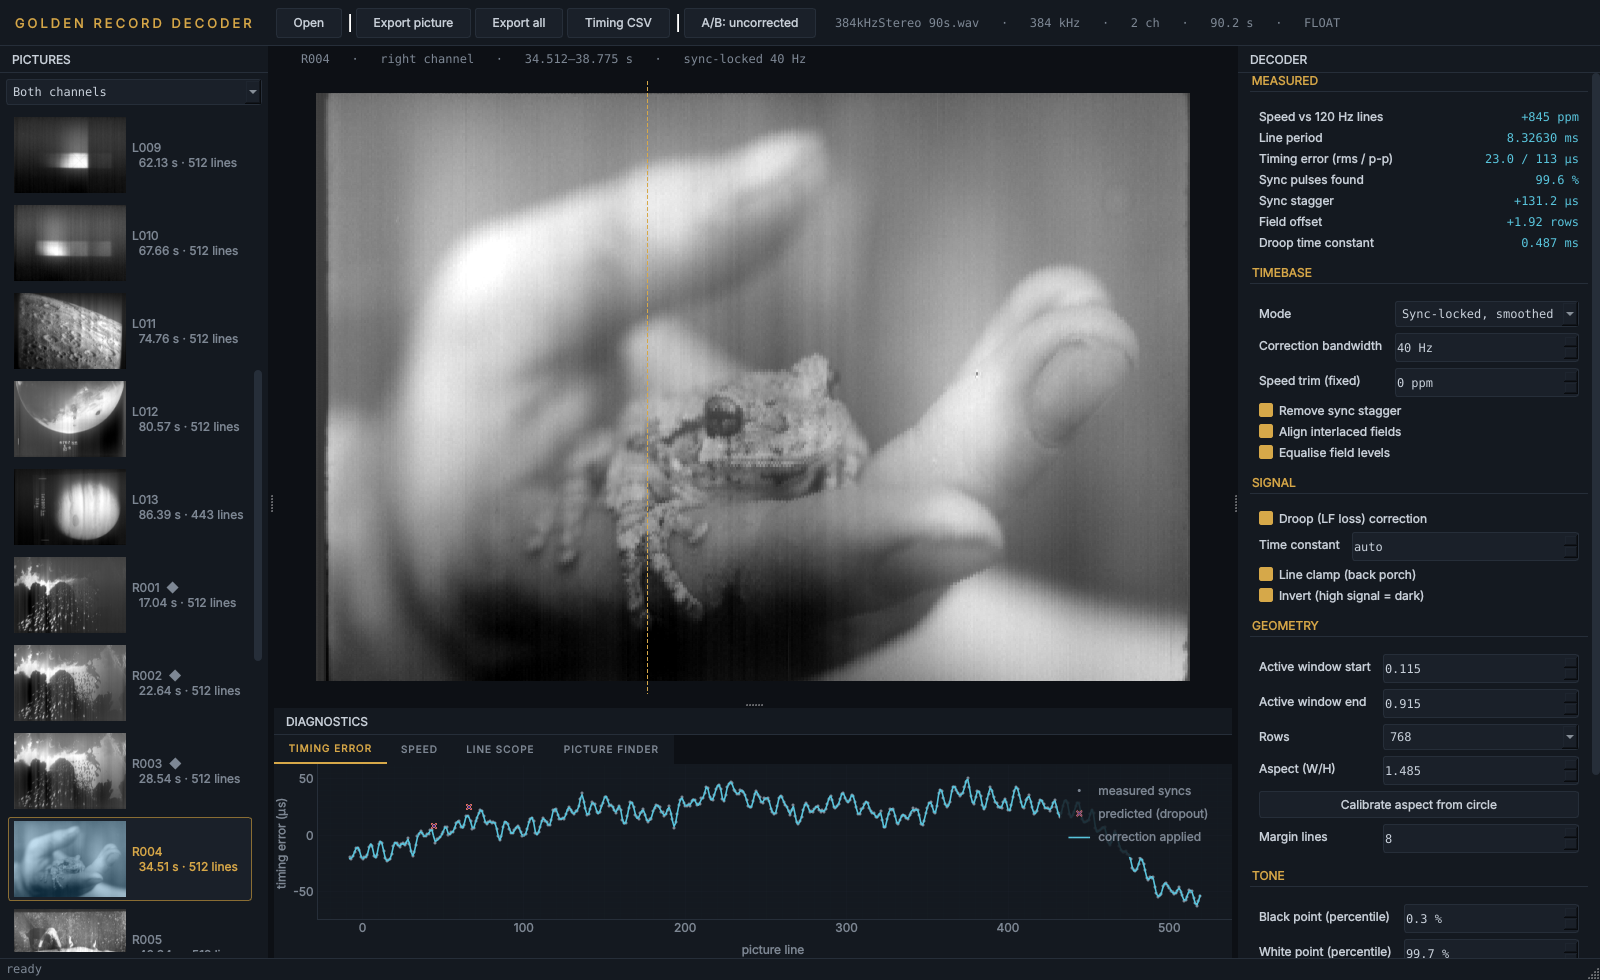
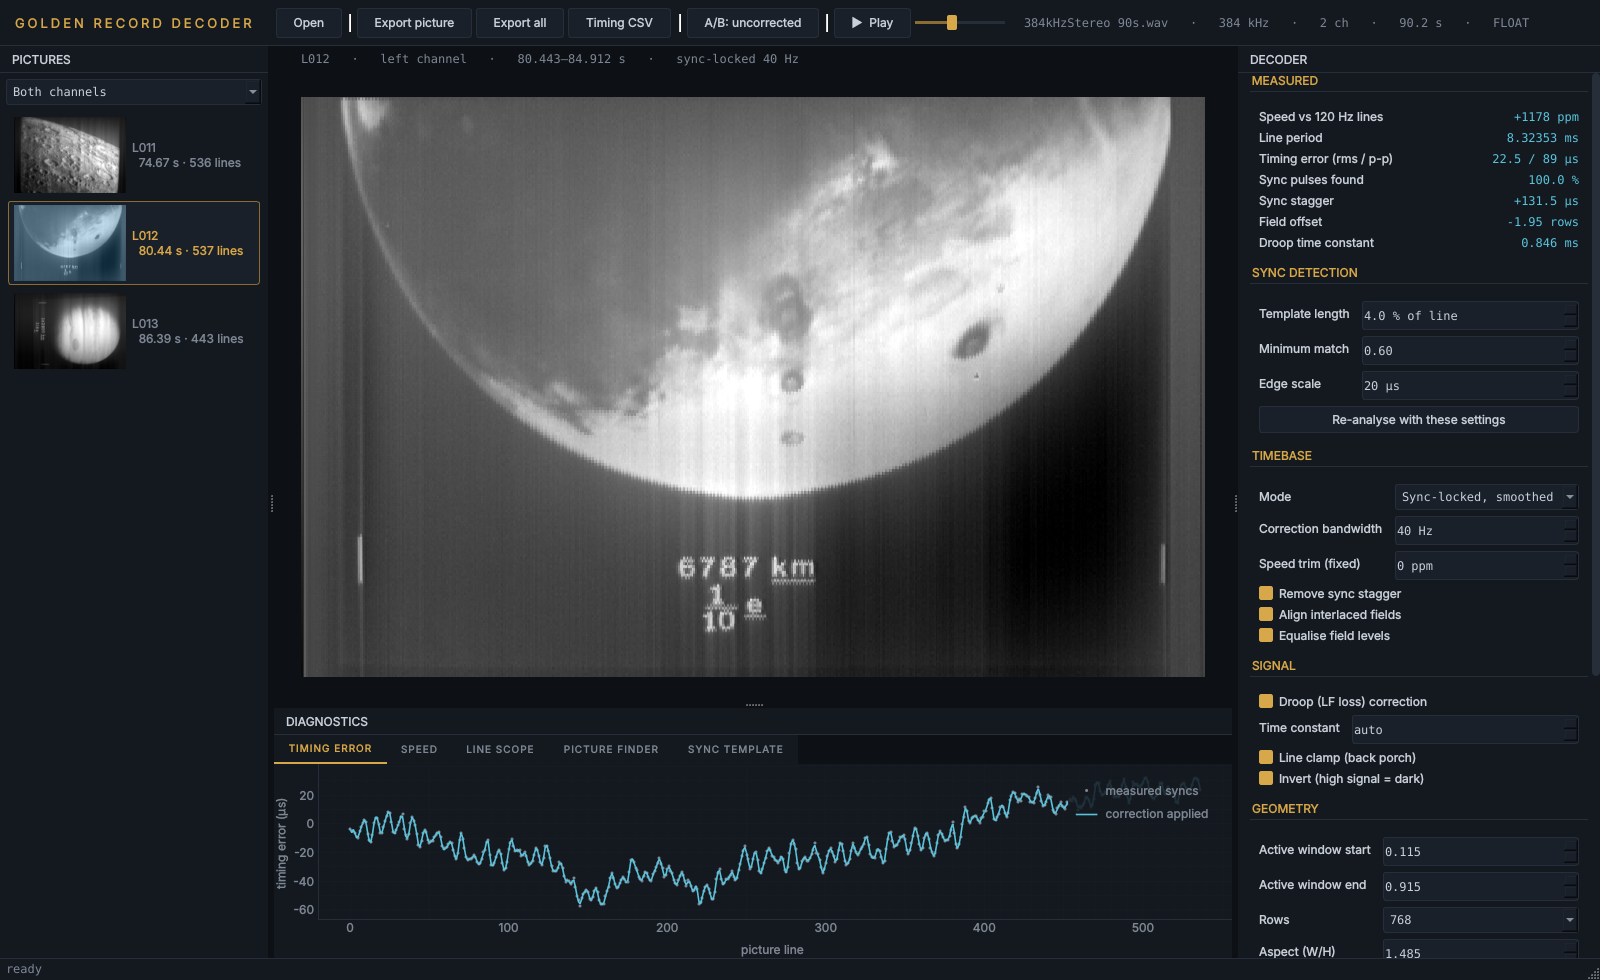
Prepare for public release (1.2.0) (#10)
- README: pictures limited to the calibration circle (with Jon Lomberg's
  permission) and NASA images; new screenshot; recording section; timing
- HOW_IT_WORKS: design described as it is (no version history), recording
  history (Honeywell 5600-C, second session), droop figure on NASA pictures
- module and function docstrings completed and brought up to date
- clean release notes

Claude-Session: https://claude.ai/code/session_01MSXHKbsSi9DGfUMQRjFHDt

diff --git a/src/grdecoder/gui/app.py b/src/grdecoder/gui/app.py
@@ -76,6 +76,7 @@ class Task(QtCore.QRunnable):
             pass
 
     def run(self) -> None:
+        """Run the job in a worker thread and report the result through signals."""
         try:
             try:
                 res = self.fn(*self.args, task=self)
@@ -91,6 +92,7 @@ class Task(QtCore.QRunnable):
 # small widget helpers
 # ==========================================================================
 def readout(text: str = "—") -> QtWidgets.QLabel:
+    """Right-aligned, monospaced label for a measured value."""
     lab = QtWidgets.QLabel(text)
     lab.setObjectName("readout")
     lab.setAlignment(QtCore.Qt.AlignRight | QtCore.Qt.AlignVCenter)
@@ -98,6 +100,7 @@ def readout(text: str = "—") -> QtWidgets.QLabel:
 
 
 def dspin(lo, hi, val, step, dec, suffix="") -> QtWidgets.QDoubleSpinBox:
+    """Double spin box with range, default, step, decimals and unit suffix."""
     s = QtWidgets.QDoubleSpinBox()
     s.setRange(lo, hi)
     s.setDecimals(dec)
@@ -109,6 +112,7 @@ def dspin(lo, hi, val, step, dec, suffix="") -> QtWidgets.QDoubleSpinBox:
 
 
 def styled_plot(ylabel: str, xlabel: str) -> pg.PlotWidget:
+    """pyqtgraph plot widget in the app's scope-like style."""
     p = pg.PlotWidget()
     p.showGrid(x=True, y=True, alpha=0.12)
     p.setLabel("left", ylabel)
@@ -149,6 +153,7 @@ def to_qimage(img01: np.ndarray) -> QtGui.QImage:
 # main window
 # ==========================================================================
 class MainWindow(QtWidgets.QMainWindow):
+    """The decoder window: picture list, picture view, settings and diagnostics."""
     def __init__(self):
         super().__init__()
         self.setWindowTitle("Golden Record Decoder")
@@ -562,6 +567,7 @@ class MainWindow(QtWidgets.QMainWindow):
 
     # ------------------------------------------------------------- opening
     def open_dialog(self):
+        """Ask for a recording and open it."""
         start = self._qsettings.value("last_dir", str(Path.home()))
         path, _ = QtWidgets.QFileDialog.getOpenFileName(
             self, "Open recording", start, "Audio (*.wav *.flac *.aif *.aiff *.w64 *.rf64);;All files (*)")
@@ -569,23 +575,28 @@ class MainWindow(QtWidgets.QMainWindow):
             self.open_file(path)
 
     def dragEnterEvent(self, e):
+        """Accept audio files dragged onto the window."""
         if e.mimeData().hasUrls():
             e.acceptProposedAction()
 
     def dropEvent(self, e):
+        """Open the first audio file dropped onto the window."""
         urls = e.mimeData().urls()
         if urls:
             self.open_file(urls[0].toLocalFile())
 
     def sync_settings(self) -> SyncSettings:
+        """The sync-detection settings as currently set in the panel."""
         return SyncSettings(template_width=self.w_tplen.value() / 100, min_score=self.w_minscore.value(),
                             edge_scale_us=self.w_edge.value())
 
     def reanalyse(self):
+        """Analyse the open file again with the current sync-detection settings."""
         if self.decoder is not None or getattr(self, "_path", None):
             self.open_file(str(self._path))
 
     def open_file(self, path: str):
+        """Open a recording and analyse it in the background."""
         self._path = Path(path)
         self._qsettings.setValue("last_dir", str(Path(path).parent))
         try:
@@ -713,6 +724,7 @@ class MainWindow(QtWidgets.QMainWindow):
 
     # ----------------------------------------------------------- rendering
     def schedule_render(self, reset_view: bool = False):
+        """Re-render the current picture shortly (debounced while settings change)."""
         self._reset_view = getattr(self, "_reset_view", False) or reset_view
         self._render_timer.start()
 
@@ -872,6 +884,7 @@ class MainWindow(QtWidgets.QMainWindow):
         self.statusBar().showMessage(f"▶ {t:8.2f} s   ·   {p.name}   ·   line {max(0, min(line, n))}")
 
     def closeEvent(self, e):
+        """Stop playback and background work before closing."""
         if self.player:
             self.player.stop()
         super().closeEvent(e)
@@ -1000,6 +1013,7 @@ class MainWindow(QtWidgets.QMainWindow):
 
     # ---------------------------------------------------------- calibrate
     def calibrate_circle(self):
+        """Set the aspect ratio that makes the calibration circle round."""
         if not self.rendered:
             return
         try:
@@ -1016,6 +1030,7 @@ class MainWindow(QtWidgets.QMainWindow):
         return resize_columns(img, display_width(self.st, img.shape[1]))
 
     def export_current(self):
+        """Save the picture on screen as a PNG with square pixels."""
         if self.rendered is None:
             return
         name = self.current.name + ("_colour" if self.colour else "")
@@ -1027,6 +1042,7 @@ class MainWindow(QtWidgets.QMainWindow):
             self.statusBar().showMessage(f"saved {path}")
 
     def export_csv(self):
+        """Save the per-line timing of the picture on screen as CSV."""
         if self.rendered is None:
             return
         start = str(Path(self._qsettings.value("last_export", str(Path.home()))) / f"{self.current.name}_timing.csv")
@@ -1036,6 +1052,7 @@ class MainWindow(QtWidgets.QMainWindow):
             self.statusBar().showMessage(f"saved {path}")
 
     def export_all(self):
+        """Decode every picture and save them, with timing CSVs, to a folder."""
         if not self.decoder:
             return
         folder = QtWidgets.QFileDialog.getExistingDirectory(self, "Export all pictures to",
@@ -1065,6 +1082,7 @@ class MainWindow(QtWidgets.QMainWindow):
 
 
 def run(argv=None) -> int:
+    """Start the app; a recording given on the command line is opened at once."""
     argv = sys.argv if argv is None else argv
     app = QtWidgets.QApplication.instance() or QtWidgets.QApplication(argv)
     app.setStyle("Fusion")

diff --git a/src/grdecoder/pictures.py b/src/grdecoder/pictures.py
@@ -1,21 +1,28 @@
 """
-pictures.py - locating the 512-line pictures inside runs of sync pulses.
+pictures.py - locating the pictures inside runs of sync pulses.
 
 A run of regular sync pulses (see sync.track_lines) is longer than the
 picture it carries: there are ~100 lines of framing before the picture and
-blank lines after it. Just before every picture sits a start marker: ~21
-lines of high-contrast diagonal hatching. The picture's first line is the
-line right after the marker; that is the precise anchor (`find_start_marker`).
-If no marker is found (damaged, or cut off by the start of the file), the
-picture is placed on the stretch of lines whose blanking structure matches
-(`picture_mask`, `find_picture_blocks`, `place_picture`). Picture lines are recognisable because their blanking intervals - the
-first ~16 % and last ~10 % of every line - all share the same structure
-(sync pulse, black/white framing bars). Lines outside the picture do not.
+blank lines after it.
 
-Method: draw every line of the run at low resolution, take the median line
-of the middle of the run as reference, correlate each line's blanking parts
-with it, and keep the longest stretch of lines that clearly matches. That
-stretch is then centred on the nominal 512 lines.
+1. Which lines belong to a picture (`picture_mask`, `find_picture_blocks`).
+   Picture lines are recognisable because their blanking intervals - the
+   first ~16 % and last ~10 % of every line - all share the same structure
+   (sync pulse, black/white framing bars); lines outside the picture do not.
+   Every line of the run is drawn at low resolution, compared with the
+   median line of its own parity, and the long stretches of lines that
+   clearly match are kept.
+
+2. Where exactly the picture starts (`find_start_marker`). Just before every
+   picture sits a start marker: ~21 lines of high-contrast diagonal
+   hatching. The picture's first line is the line right after it. From
+   there the decoder keeps the whole framed area, which on the master tape
+   is 530-541 lines (the cover's 512 plus a border); see
+   pipeline.Decoder._analyse_channel.
+
+3. Fallback (`place_picture`): if no marker is found (damaged, or cut off by
+   the start of the file), the nominal 512 lines are centred on the
+   matching stretch.
 """
 
 from __future__ import annotations

diff --git a/src/grdecoder/sync.py b/src/grdecoder/sync.py
@@ -23,11 +23,13 @@ the method does not rely on that. It works in three steps:
    align consecutive line pairs to each other by cross-correlating whole
    pairs (neighbouring lines of a picture look alike), and average them.
    Picture content averages away, the sync structure that repeats every two
-   lines remains, sharp. The template is cut from that average, around its
-   steepest rising edge.
-3. `detect` - normalised cross-correlation of the whole signal with the
-   template (a matched filter). Every local maximum above `min_score` is a
-   sync pulse, located to a fraction of a sample by parabolic interpolation.
+   lines remains, sharp. Two templates are cut from that average, one per
+   field (the two fields start with differently shaped pulses), from just
+   before each rising edge to `template_width` of a line after it.
+3. `detect` - normalised cross-correlation of the whole signal with both
+   templates (a matched filter). Local maxima above `min_score` are sync
+   pulse candidates, located to a fraction of a sample by parabolic
+   interpolation; the tracker then picks the ones that follow the rhythm.
 
 Then `track_lines` follows the line rhythm through the detections, bridges
 dropouts and splits the recording into runs of consecutive lines.
@@ -207,10 +209,12 @@ class SyncTemplate:
 
     @property
     def length(self) -> int:
+        """Template length in samples."""
         return self.pre + self.post
 
     @property
     def shape(self) -> np.ndarray:  # the first waveform, for display
+        """The first (main) template shape."""
         return self.shapes[0]
 
 

diff --git a/src/grdecoder/cli.py b/src/grdecoder/cli.py
@@ -25,6 +25,7 @@ from .render import auto_levels, combine_colour, resize_columns, tone_map
 
 
 def build_parser() -> argparse.ArgumentParser:
+    """Command-line parser; every DecodeSettings / SyncSettings field becomes an option."""
     p = argparse.ArgumentParser(prog="grdecoder", description="Voyager Golden Record picture decoder")
     sub = p.add_subparsers(dest="command")
 
@@ -61,6 +62,7 @@ def _bool(s: str) -> bool:
 
 
 def decode(args) -> int:
+    """Analyse a recording and write every picture, colour composites and a report."""
     st = DecodeSettings(**{f.name: getattr(args, f.name) for f in fields(DecodeSettings)})
     sync_st = SyncSettings(**{f.name: getattr(args, "sync_" + f.name) for f in fields(SyncSettings)})
     dec = Decoder(args.wav, sync_settings=sync_st)
@@ -142,6 +144,7 @@ def selftest(args) -> int:
 
 def main(argv=None) -> int:
     # a windowed .exe has no console: give print() somewhere harmless to write
+    """Entry point: run a subcommand, or start the GUI when there is none."""
     if sys.stdout is None:
         sys.stdout = open(os.devnull, "w")
     if sys.stderr is None:

diff --git a/src/grdecoder/pipeline.py b/src/grdecoder/pipeline.py
@@ -5,7 +5,7 @@ pipeline.py - the decoder as one object: analyse a file, then render pictures.
     dec.analyse()                      # find all pictures on both channels
     pic = dec.pictures[0]
     out = dec.render(pic, DecodeSettings())
-    out.image                          # float array (rows, 512)
+    out.image                          # float array (rows, lines); ~535 lines
 
 Everything the GUI and the command-line tool do goes through this class.
 """
@@ -108,6 +108,7 @@ class Picture:
 
     @property
     def name(self) -> str:
+        """Short label: channel letter and number, e.g. "L001"."""
         return f"{'LR'[self.channel]}{self.number:03d}"
 
 
@@ -134,6 +135,7 @@ class Rendered:
         return (nominal / self.period_samples - 1.0) * 1e6
 
     def timing_error_us(self, which: str = "raw") -> np.ndarray:
+        """Per-line timing error of the picture in µs ("raw" as measured, else as applied)."""
         e = self.timebase.error_raw if which == "raw" else self.timebase.error_used
         return e[self.lines] / self.fs * 1e6
 

diff --git a/src/grdecoder/render.py b/src/grdecoder/render.py
@@ -125,9 +125,8 @@ def sample_picture(
     k = first_line + np.arange(n_lines)  # (W,)
     q = k[None, :] + u[:, None]  # (H, W)
     t = tb(q.ravel()).reshape(q.shape)
-    # parity by column of the picture, not by line number in the run: the
-    # offset is measured on picture columns (see measure_field_offset), and a
-    # picture can start on an odd run line
+    # Parity is counted along the picture's own columns, the same way
+    # measure_field_offset counts it (a picture can start on an odd run line).
     fshift = np.where(np.arange(n_lines) % 2 == 0, 0.5, -0.5)[None, :] * field_offset
     img = np.interp(t + fshift - a, np.arange(len(x)), x)
     if clamp is not None:

diff --git a/src/grdecoder/gui/playback.py b/src/grdecoder/gui/playback.py
@@ -108,6 +108,7 @@ class Player:
             self._stream.start()
 
     def stop(self) -> None:
+        """Stop playback and release the sound device."""
         self._stop.set()
         if self._stream is not None:
             try:

diff --git a/src/grdecoder/audio.py b/src/grdecoder/audio.py
@@ -54,6 +54,7 @@ class AudioSource:
 
     @property
     def fs(self) -> int:
+        """Sample rate of the file in Hz."""
         return self.info.samplerate
 
     def read(self, channel: int, start: int, stop: int) -> np.ndarray:

diff --git a/src/grdecoder/__init__.py b/src/grdecoder/__init__.py
@@ -13,4 +13,4 @@ Modules, in processing order:
     gui        graphical interface (PySide6 + pyqtgraph)
 """
 
-__version__ = "1.1.2"
+__version__ = "1.2.0"

diff --git a/README.md b/README.md
@@ -20,11 +20,12 @@ band-limited copies decode as well: on the 90 s excerpt all 26 pictures are
 found at 384 kHz, after a 20 kHz low-pass and at 44.1 kHz, with sync timing
 noise of 1.8, 2.0 and 2.1 µs.
 
-![first 26 pictures, decoded](docs/images/contact_sheet.png)
+![three decoded pictures: the calibration circle, Mercury and Mars](docs/images/pictures.jpg)
 
-*The first 26 pictures from the first 90 s of the master-tape transfer, both
-channels, with default settings. The last two are colour pictures that were
-detected and combined automatically.*
+*Three pictures decoded from the master-tape transfer with default settings:
+the calibration circle (© Jon Lomberg, shown with his permission), Mercury
+and Mars (NASA). The other pictures on the record belong to their
+photographers and artists, so they are not reproduced here.*
 
 ## What it does differently
 
@@ -56,9 +57,12 @@ The full explanation, with the measurements behind every default, is in
 
 ## Getting the recording
 
-The recording is **not included** in this repository. The picture data
-from the original master tapes was published by Ozma Records with their 2017
-Voyager Golden Record reissue.
+The recording is **not included** in this repository, and no pictures from
+the record are bundled with the program. You need your own recording of the
+picture section, ideally a lossless (WAV or FLAC) copy of the master-tape
+transfer that Ozma Records made for the 2017 reissue. Lossy copies decode
+too, with more noise. The pictures and the recording belong to their rights
+holders; check before you publish decoded pictures.
 
 ## Installation
 
@@ -95,7 +99,7 @@ grdecoder                      # start the app
 ## Using the app
 
 1. **Open…** (or drag a file onto the window). The app scans both channels
-   and lists the pictures it finds (about 6 s per 90 s of stereo 384 kHz
+   and lists the pictures it finds (about 14 s per 90 s of stereo 384 kHz
    audio).
 2. Click a picture to decode it. The defaults are the recommended settings.
 3. **A/B: uncorrected** shows the same picture decoded the plain way
@@ -120,7 +124,7 @@ grdecoder                      # start the app
 | Correction bandwidth | how fast a speed variation is still corrected (default 40 Hz; the line rate is 120 Hz) |
 | Speed trim | fixed-speed mode only: manual fine-tuning of the playback speed |
 | Remove sync stagger / Equalise field levels | the interlace corrections (on by default) |
-| Align fields (experimental) | measures and removes a vertical offset between even and odd lines. Off by default: on the master tape the fields already line up after removing the stagger |
+| Align fields (experimental) | measures and removes a vertical offset between even and odd lines. Off by default: on the master tape the fields already line up once the stagger is removed |
 | Droop correction, time constant | undo the low-frequency loss; *auto* measures it per picture |
 | Line clamp | remove line-to-line level jumps (vertical streaks) |
 | Invert | on this recording a higher signal means darker (default on) |
@@ -173,3 +177,4 @@ pictures belong to their owners and are not part of this repository.
 * Ron Barry — first public decoding write-up (2017), which made the image data widely known.
 * Frank Drake, Valentin Boriakoff and Colorado Video Inc. — the 1977 picture encoding.
 * Jon Lomberg — design director of the Golden Record, including the calibration circle the decoder uses to set the aspect ratio.
+* NASA/JPL-Caltech — photograph of the record cover, used for the app icon; Mercury and Mars pictures in this README.

diff --git a/packaging/RELEASE_NOTES.md b/packaging/RELEASE_NOTES.md
@@ -1,15 +1,14 @@
-## New in 1.1.2
+## Golden Record Decoder 1.2
 
-* **Calibrate aspect from circle** fixed. It mistook the bright edge of the framed area for the ring and set the aspect far too low, shrinking every picture. The ring is now found by fitting an ellipse to it, away from the frame edges, and the button refuses pictures that are not the circle. On the master tape it confirms the default, 1.485.
+Decodes the pictures of the Voyager Golden Record from a recording of its picture section, with the tape's timing errors corrected line by line.
 
-## New in 1.1.1
+* Finds every picture on both channels and locks to every sync pulse, learning the pulse shape from the recording itself, so 384 kHz, 44.1 kHz and band-limited copies all decode.
+* Corrects wow and flutter, the staggered sync of the interlaced fields, low-frequency loss ("droop") and line-to-line level jumps.
+* Calibrates the aspect ratio on the calibration circle and combines colour separations.
+* Plays the recording while the picture is drawn line by line in step with the sound.
+* Shows its working: timing error, speed, line scope, picture finder and sync template.
 
-* **Align fields** is now off by default and marked experimental. On the master tape the fields already line up once the sync stagger is removed; the automatic alignment was misled by a fine texture in the signal and made edges jagged (thanks to Carlos for spotting it on the calibration circle). It also used the wrong line parity on pictures that start on an odd line.
-
-## New in 1.1
-
-* Sync detection works at any sample rate and on band-limited copies (44.1 kHz, 20 kHz low-pass): pulse templates are learned from the recording.
-* New **Sync detection** settings (template length, minimum match, edge scale) with a **Re-analyse** button, and a **Sync template** diagnostics tab.
+The recording is not included. See the README and `docs/HOW_IT_WORKS.md` for details.
 
 ## Install (Windows)
 
@@ -22,5 +21,3 @@
 
 **Open…** (or drag a WAV/FLAC onto the window) → the pictures appear on the left → click one to decode it.
 Defaults are the recommended settings; **A/B: uncorrected** shows the plain decode for comparison.
-
-See the README and `docs/HOW_IT_WORKS.md` in the repository for details.
